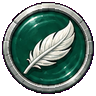
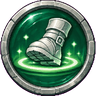
还有命时跳过结算页直接回宫殿（GAME OVER→CONTINUE）；新身法图标；去掉跳过开场勾选
Claude-Session: https://claude.ai/code/session_015MetZpZfHySQWDEPDS41Tu

diff --git a/js/ui.js b/js/ui.js
@@ -171,7 +171,6 @@
   $('aReset').onclick = () => { P.free = {}; renderPrep(); };
   $('pBack').onclick = () => show('title');
   const introSeen = () => store.get('introSeen') === '1';
-  { const c = $('introSkip'), saved = store.get('introSkip'); c.checked = saved === '1'; c.onchange = () => store.set('introSkip', c.checked ? '1' : '0'); }
   function playIntro(go) { const f = $('introF'), first = !introSeen(); f.src = 'demo/intro.html?game&h=' + (store.get('hero') === 'f' ? 'f' : 'm') + '&w=' + (store.get('weapon') || 'sword') + (first ? '&first' : '') + '&v=' + Date.now(); f.style.display = 'block'; f.onload = () => { try { f.contentWindow.focus(); } catch (e) {} };
     const on = e => { if (e.data !== 'introDone') return; removeEventListener('message', on); store.set('introSeen', '1'); f.style.display = 'none'; f.src = 'about:blank'; go(); }; addEventListener('message', on); }
   $('pGo').onclick = () => { const b = build(); if (!introSeen()) playIntro(() => startBattle(b)); else openHub('', () => startBattle(b)); };   // 11/24 第一次：塔顶开场；之后：从宫殿出发
@@ -327,7 +326,8 @@
   }
   function nextChapter() { const w = document.createElement('div'); w.style.cssText = 'position:fixed;inset:0;background:#fff;z-index:95;opacity:0;transition:opacity .4s'; document.body.appendChild(w); requestAnimationFrame(() => w.style.opacity = 1);
     setTimeout(() => { worldMap(() => { BATTLE.stop(); overlay('wmap', false); show('title'); }, true); w.style.opacity = 0; setTimeout(() => w.remove(), 450); }, 450); }
-  function result(r) { lastRes = r; $('rAgain').textContent = r.cont ? `回到宫殿，续关（还剩 ${r.cont} 条命） ▶` : r.win ? '回到宫殿 ▶' : '回到宫殿，重新开始 ▶';
+  function result(r) { lastRes = r; if (r.cont && !r.win) { BATTLE.stop(); return $('rAgain').onclick(); }   // 11/24 还有命：不出结算页，直接回宫殿续关
+  $('rAgain').textContent = r.cont ? `回到宫殿，续关（还剩 ${r.cont} 条命） ▶` : r.win ? '回到宫殿 ▶' : '回到宫殿，重新开始 ▶';
     if (r.win && !r.mapShown) return worldMap(() => result(Object.assign({}, r, { mapShown: true })));
     $('rTitle').textContent = r.win ? '胜利！' : '败北……';
     setTimeout(() => { if (r.cry) $('rMsg').textContent += `　这一局带回 ${r.cry} 水晶。`; }, 0);

diff --git a/demo/palace.html b/demo/palace.html
@@ -97,7 +97,7 @@ function loop(n) { const dt = Math.min(.033, (n - last) / 1000 || 0); last = n; 
   if (msgT > 0) { g.setTransform(1, 0, 0, 1, 0, 0); g.fillStyle = 'rgba(0,0,0,.6)'; g.fillRect(0, VH * .4 - 30 * devicePixelRatio, VW, 50 * devicePixelRatio); g.fillStyle = '#ffe9a8'; g.font = `${20 * devicePixelRatio}px sans-serif`; g.fillText(msg, VW / 2 - g.measureText(msg).width / 2, VH * .4); }
   $('hud').innerHTML = GAME ? `💎 水晶 ${crystal}${CONT ? `　❤ 还剩 ${CONT} 条命` : ''}<br><small>走进公主身边的时空门出发</small>` : `宫殿据点（正式美术，一张图，镜头上下跟随）<br>💎 水晶 ${crystal}（demo 送的）<br>WASD 走 · 靠近人按 E 对话 / 点按钮`; }
 const CONT = +QS.get('cont') || 0, CRY = +QS.get('cry') || 0;
-if (GAME) { let L = []; try { L = JSON.parse(QS.get('L') || '[]'); } catch (e) {} (async () => { const w = t => new Promise(r => setTimeout(r, t)); await w(600); if (CRY) { msg = `带回 ${CRY} 水晶`; msgT = 2; await w(1800); }
+if (GAME) { let L = []; try { L = JSON.parse(QS.get('L') || '[]'); } catch (e) {} (async () => { const w = t => new Promise(r => setTimeout(r, t)); await w(600); if (CONT) { msg = 'GAME OVER'; msgT = 1.3; await w(1300); msg = `CONTINUE ?　（还剩 ${CONT} 条命）`; msgT = 1.6; await w(1700); } if (CRY) { msg = `带回 ${CRY} 水晶`; msgT = 2; await w(1800); }
   for (const [who, txt] of L) { const n = NPC.find(o => o.name === who) || (who === '露米娜' ? NPC[0] : NPC[3]); say(n, txt); await w(Math.max(2200, txt.length * 160)); } })(); }
 Promise.resolve(SPR.load && SPR.load()).catch(() => 0); requestAnimationFrame(loop);
 </script></body></html>

diff --git a/index.html b/index.html
@@ -36,7 +36,7 @@
       <div class="pnPick"><span>选择勇者</span><div class="pnSel csel" id="cSel"></div></div>
       <div class="pnHead"><canvas id="heroCv"></canvas><div id="hInfo"></div></div>
       <div class="pnSec"><h4>起手兵器</h4><div class="pnWep" id="wSel"></div><p class="wdesc" id="wDesc"></p></div>
-      <div class="pnFoot"><button class="btn" id="pBack">返回</button><button class="btn gold" id="pGo">出发！</button></div><label id="introChk"><input type="checkbox" id="introSkip"> 跳过开场动画</label>
+      <div class="pnFoot"><button class="btn" id="pBack">返回</button><button class="btn gold" id="pGo">出发！</button></div>
     </div>
   </div>
   <div hidden><div id="ptabs"><button data-t="w" class="on"></button></div><small id="aLeft"></small><button id="aReset"></button><div id="aRows"></div><div id="aStats"></div><div id="hSel"></div><div id="sSlots"></div><div id="bag"></div><div id="iSel"></div><p id="pTip"></p></div>
